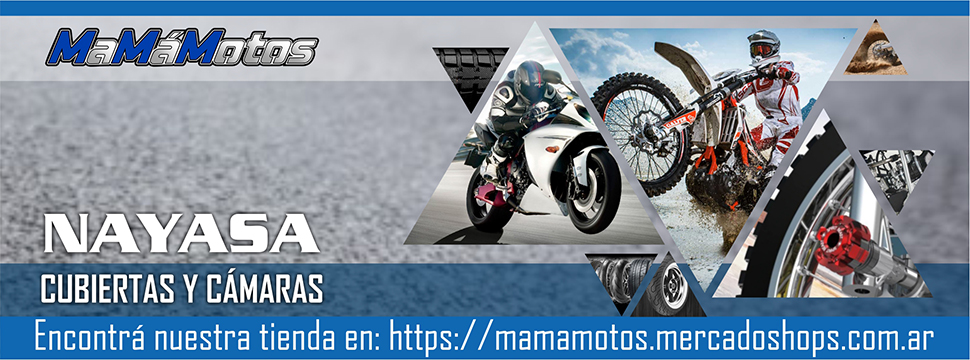
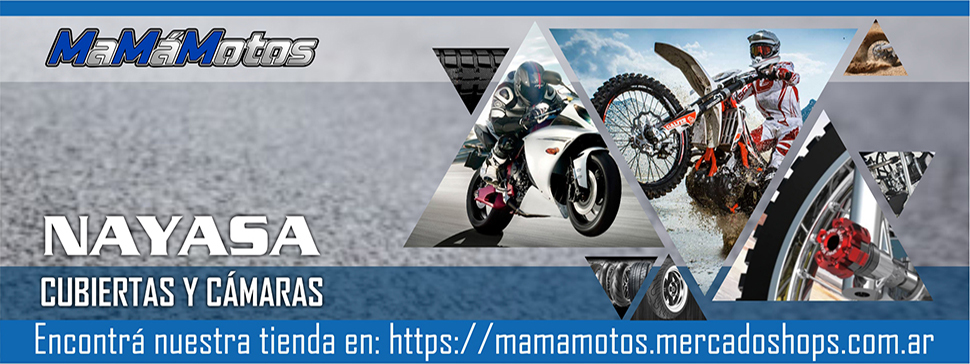
trabajando media queries index

diff --git a/index.html b/index.html
@@ -119,9 +119,9 @@
                 </div>
             </div>
 
-            <div id="index__mobile" class="container">
+            <div id="index__mobile" class="container text-center">
                 <div class="row">
-                    <div id="carouselExampleControls" class="carousel slide" data-bs-ride="carousel">
+                    <div class="carousel slide" data-bs-ride="carousel">
                         <div class="carousel-inner">
                             <div class="carousel-item active" data-bs-interval="5000">
                                 <img src="./images/bannermamamotospresentacion.jpg" class="d-block w-100"
@@ -134,22 +134,12 @@
                                 <img src="./images/bannerkenda.jpg" class="d-block w-100" alt="Banner Kenda">
                             </div>
                         </div>
-                        <button class="carousel-control-prev" type="button" data-bs-target="#carouselExampleControls"
-                            data-bs-slide="prev">
-                            <span class="carousel-control-prev-icon" aria-hidden="true"></span>
-                            <span class="visually-hidden">Previous</span>
-                        </button>
-                        <button class="carousel-control-next" type="button" data-bs-target="#carouselExampleControls"
-                            data-bs-slide="next">
-                            <span class="carousel-control-next-icon" aria-hidden="true"></span>
-                            <span class="visually-hidden">Next</span>
-                        </button>
                     </div>
 
 
                     <div class="carousel__texto">
 
-                        <div id="carouselExampleControls" class="carousel slide" data-bs-ride="carousel">
+                        <div class="carousel slide" data-bs-ride="carousel">
                             <div class="carousel-inner">
                                 <div class="carousel-item active" data-bs-interval="5000">
                                     <h4 class="h4__carousel--mod">Somos Mercado Libre Platinum</h4>

diff --git a/css/style.scss b/css/style.scss
@@ -43,12 +43,48 @@ body {
     #index__mobile{
         display: flex;
         padding: 0%;
+        margin: 0%;
+        background-size: $var1;
     }
 
     .carousel__texto{
-    background-color: rgba($color3, $alpha: 0.75);
+    background-color: $color3;
     color: $color2;
     align-items: center;
+    height: 70px;
+    }
+
+    .h4__carousel--mod{
+    font-size: $size3;
+    color: $color6;
+    }
+
+    .p__carrousel{
+    text-align: center;
+    font-size: $size1;
+    }
+}
+@media only screen and (min-width: 600px) and (max-width: 768px) {
+
+    #index__bigscreen{
+        display: none;
+    }
+
+    #index__mobile{
+        display: flex;
+        padding: 0%;
+        margin: 0%;
+        background-size: $var1;
+        background-position: center;
+    }
+
+    .carousel__texto{
+    background-color: $color3;
+    color: $color2;
+    align-items: center;
+    height: 70px;
+    margin: 0%;
+    background-size: 100%;
     }
 
     .h4__carousel--mod{

diff --git a/css/style.css b/css/style.css
@@ -248,12 +248,47 @@ body {
   #index__mobile {
     display: flex;
     padding: 0%;
+    margin: 0%;
+    background-size: 100%;
   }
 
   .carousel__texto {
-    background-color: rgba(0, 0, 0, 0.75);
+    background-color: black;
     color: white;
     align-items: center;
+    height: 70px;
+  }
+
+  .h4__carousel--mod {
+    font-size: 16px;
+    color: rgba(255, 255, 255, 0.651);
+  }
+
+  .p__carrousel {
+    text-align: center;
+    font-size: 12px;
+  }
+}
+@media only screen and (min-width: 600px) and (max-width: 768px) {
+  #index__bigscreen {
+    display: none;
+  }
+
+  #index__mobile {
+    display: flex;
+    padding: 0%;
+    margin: 0%;
+    background-size: 100%;
+    background-position: center;
+  }
+
+  .carousel__texto {
+    background-color: black;
+    color: white;
+    align-items: center;
+    height: 70px;
+    margin: 0%;
+    background-size: 100%;
   }
 
   .h4__carousel--mod {
